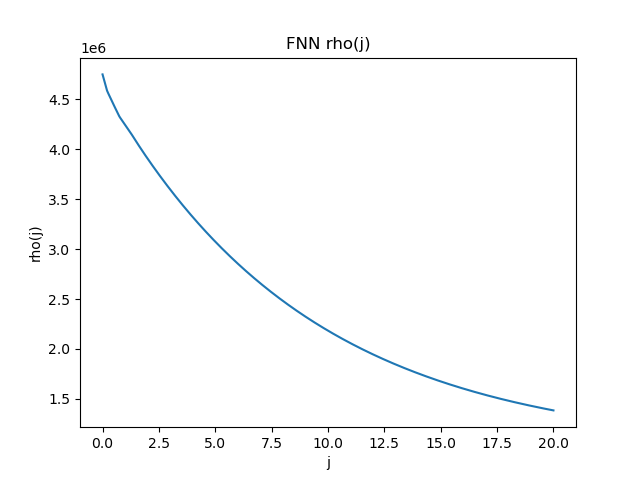
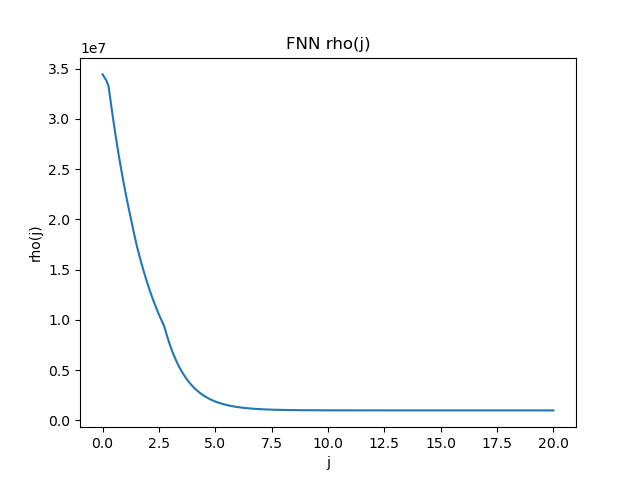
FNN rho training

diff --git a/new/NEODE_all.py b/new/NEODE_all.py
@@ -153,9 +153,9 @@ del data_model
 '''
 
 model = ECOAT(L, Sigma, R_film0, VR=VR).to(device)
-optimizer = torch.optim.Adam(model.parameters(), lr = 5e-2)
+optimizer = torch.optim.Adam(model.parameters(), lr = 1e-2)
 
-epochs = 1
+epochs = 100
 n_batch = 1
 
 loss_v = np.zeros((epochs, ))
